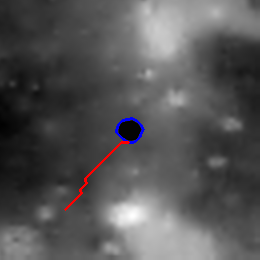
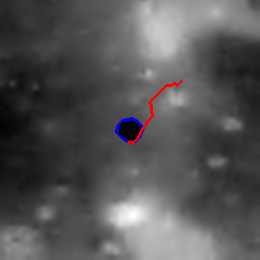
Pit start points changed. Labels changed as well

diff --git a/src/main.cpp b/src/main.cpp
@@ -289,7 +289,7 @@ int main(int argc, char** argv) {
 //      auto way_points = generate_way_points(pit_edges,map,threshold_dist_from_pit,pit_interior_points);     //Uncomment this if you want separate waypoints and pit edges
 
         const unordered_map<int,coordinate> start_positions {{1,coordinate{0,0}},
-                                                             {2,coordinate{0,208}},
+                                                             {2,coordinate{80,182}},
                                                              {3,coordinate{static_cast<int>(map.size()-1),static_cast<int>(map[0].size()-1)}},
                                                              {4,coordinate{static_cast<int>(210),64}}};
 
@@ -340,6 +340,7 @@ int main(int argc, char** argv) {
         int dont_repeat_waypoint_label = -1;
         time_location.emplace_back(make_tuple(present_time_index,previous_coordinate.x,previous_coordinate.y,final_waypoint_label));
         path_location.emplace_back(make_tuple(present_time_index,previous_coordinate.x,previous_coordinate.y,final_waypoint_label));
+        start_coordinate = goal_coordinate;
 
         while(present_time_index<final_time_index)
         {
@@ -379,7 +380,7 @@ int main(int argc, char** argv) {
                 else
                 {
                     path_location.emplace_back(make_tuple(present_time_index,point.x,point.y,final_waypoint_label));
-                    time_location.emplace_back(make_tuple(present_time_index,point.x,point.y,intermediate_waypoint_label));
+                    time_location.emplace_back(make_tuple(present_time_index,point.x,point.y,final_waypoint_label));
                 }
             }
             previous_coordinate = best_goal_coordinate;
